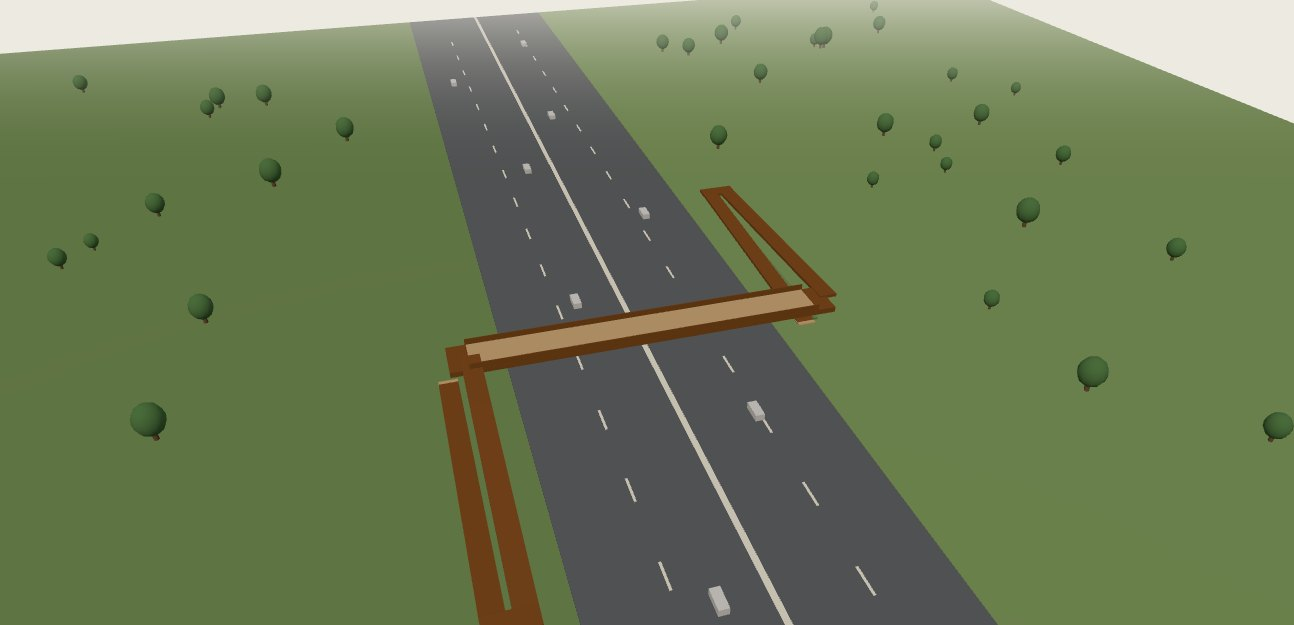
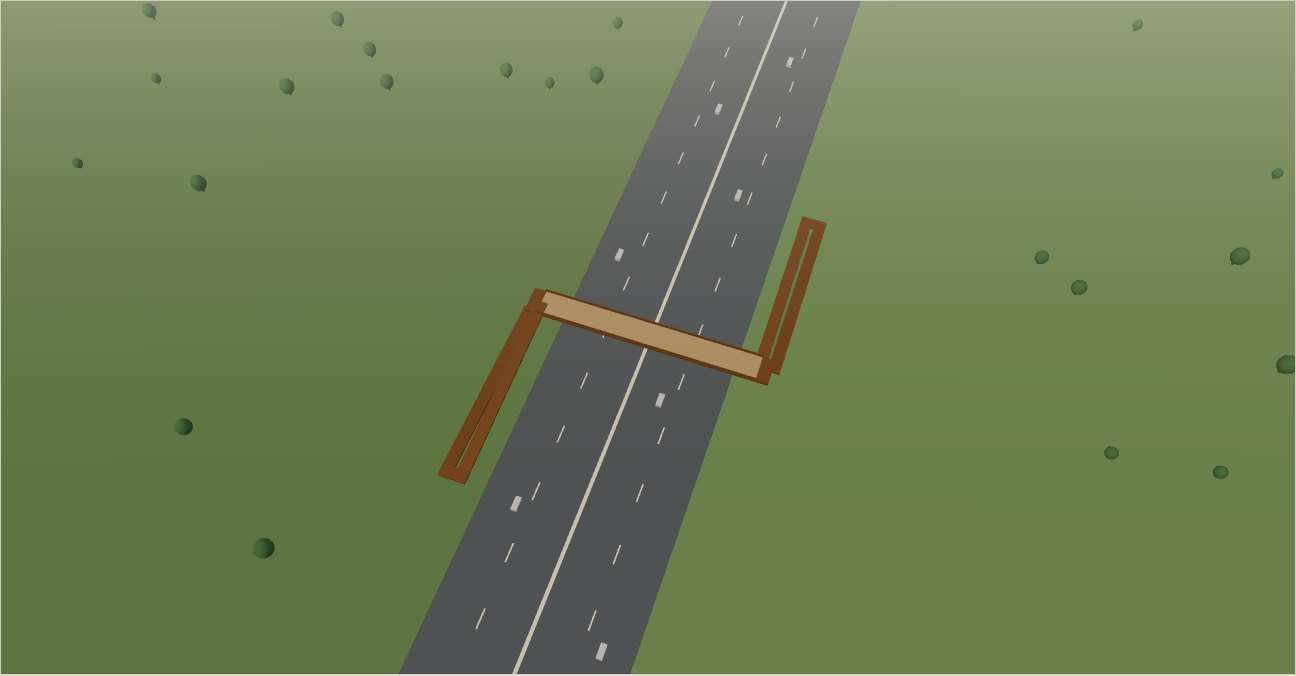
Reframe the 3D poster so it shows the shape it exists to explain
The still that stands in for the WebGL scene is there to show the deck and its
two switchback ramps reading together as the character 人. Both ramps ran off the
edge of the frame, so the one thing the image is for was the one thing it did not
do — and it is the first thing a reader sees, before the scene loads. Recomposed
so both ramps sit inside the frame.

Pulling the camera back exposed a second problem: the ground was 560x500 m, so
its cut edge came into shot as a hard diagonal — an edge of the world. The fog
ends at 560 m, so the ground now runs to 1500x1180 m and cannot be reached, with
lane markings and trees extended to match.

And when WebGL is unavailable the page kept telling the reader to drag or use the
arrow keys, with an aria-label promising the same, while the container had no
interaction left at all. That branch now drops the hint and the tabindex and
rewrites the label. Both paths were run: with WebGL the canvas, hint, tabindex and
interactive label are present; without it they are gone and the role is img.

diff --git a/submissions/wanghao198822/jingzhang-century-answer/visual/index.en.html b/submissions/wanghao198822/jingzhang-century-answer/visual/index.en.html
@@ -866,7 +866,7 @@ This browser cannot play embedded video; open assets/media/narrative.mp4 directl
 <h3 class="sub3"><span class="ix">D·2</span>Four-gate self-check</h3>
 <div class="gates"><div class="gate"><div class="gn">Deterministic validation<span class="pill ok" style="margin-left:7px">PASS</span></div><div class="gk">deterministic_validation · returncode 0</div><pre>errors 0
 warnings 24
-total bytes 40,810,765
+total bytes 40,809,981
 · submissions/wanghao198822/jingzhang-century-answer/geometry/site_boundary.geojson: uses provisional boundary; do not treat it as an official redline or precise-area basis. Organizer data gaps do not block content scoring; recalculate when official geometry is supplied
 · submissions/wanghao198822/jingzhang-century-answer/spatial.json: items[0]: provisional spatial concept needs maintainer review before being treated as public-facing context</pre></div><div class="gate"><div class="gn">Spatial review<span class="pill ok" style="margin-left:7px">PASS</span></div><div class="gk">spatial_review · returncode 0</div><pre>stage formal
 issues 3 (minor:3)
@@ -883,7 +883,7 @@ known_metric_refs_required = 83
 proposal_format_version = 2
 evidence_contract = section-anchors-plus-structured-audit
 proposal_reference_counts = source:23, standard:8, depth:15, data:26, metric:11</pre></div></div>
-<div class="note">From self_check.json: stage = formal · review_status = formal-review-ready · can_enter_formal_review = True<br>Calibre of total bytes: the figure above is the value recorded at self-check time. self_check.json is itself counted in the total, and the tool measures after writing an intermediate file that does not yet carry the gate results, so an independent re-run reports 758 bytes more (40,811,523). The difference is exactly the growth of self_check.json once the gate results are attached — an inherent two-phase write in the tool that changes no gate verdict.</div>
+<div class="note">From self_check.json: stage = formal · review_status = formal-review-ready · can_enter_formal_review = True<br>Calibre of total bytes: the figure above is the value recorded at self-check time. self_check.json is itself counted in the total, and the tool measures after writing an intermediate file that does not yet carry the gate results, so an independent re-run reports 758 bytes more (40,810,739). The difference is exactly the growth of self_check.json once the gate results are attached — an inherent two-phase write in the tool that changes no gate verdict.</div>
 <div class="tw"><table class="dt"><thead><tr><th>Check</th><th>Result</th><th>Severity</th><th>Target</th><th>Message</th></tr></thead><tbody><tr><td><code class="mid2">DETERMINISTIC_VALIDATION</code></td><td class="st"><span class="pill ok">pass</span></td><td>blocking</td><td><code class="mid2">validate_local_submission.py</code></td><td>deterministic_validation: PASS</td></tr><tr><td><code class="mid2">SPATIAL_REVIEW</code></td><td class="st"><span class="pill ok">pass</span></td><td>blocking</td><td><code class="mid2">spatial_review.py</code></td><td>spatial_review: PASS</td></tr><tr><td><code class="mid2">VISUAL_PACKAGING</code></td><td class="st"><span class="pill ok">pass</span></td><td>blocking</td><td><code class="mid2">visual_review.py</code></td><td>visual_review: PASS</td></tr><tr><td><code class="mid2">PROFESSIONAL_EVIDENCE</code></td><td class="st"><span class="pill ok">pass</span></td><td>blocking</td><td><code class="mid2">professional_review.py</code></td><td>professional_review: PASS</td></tr></tbody></table></div>
 </div></section>
 <section class="sec apx" id="s12"><div class="wrap"><div class="sh rv"><span class="no">E</span><h2 class="serif">Appendix E · Verify it yourself, on the spot</h2><span class="sub">Three scripts recompute in your own browser</span><span class="en">附录 E · 可当场核验工具</span></div>

diff --git a/submissions/wanghao198822/jingzhang-century-answer/visual/index.html b/submissions/wanghao198822/jingzhang-century-answer/visual/index.html
@@ -866,7 +866,7 @@ footer .fl{display:flex;gap:18px;flex-wrap:wrap;font-family:var(--mono);font-siz
 <h3 class="sub3"><span class="ix">D·2</span>四门自检</h3>
 <div class="gates"><div class="gate"><div class="gn">确定性校验<span class="pill ok" style="margin-left:7px">PASS</span></div><div class="gk">deterministic_validation · returncode 0</div><pre>错误 0
 警告 24
-总字节 40,810,765
+总字节 40,809,981
 · submissions/wanghao198822/jingzhang-century-answer/geometry/site_boundary.geojson: uses provisional boundary; do not treat it as an official redline or precise-area basis. Organizer data gaps do not block content scoring; recalculate when official geometry is supplied
 · submissions/wanghao198822/jingzhang-century-answer/spatial.json: items[0]: provisional spatial concept needs maintainer review before being treated as public-facing context</pre></div><div class="gate"><div class="gn">空间审查<span class="pill ok" style="margin-left:7px">PASS</span></div><div class="gk">spatial_review · returncode 0</div><pre>阶段 formal
 问题 3 (minor:3)
@@ -883,7 +883,7 @@ known_metric_refs_required = 83
 proposal_format_version = 2
 evidence_contract = section-anchors-plus-structured-audit
 proposal_reference_counts = source:23, standard:8, depth:15, data:26, metric:11</pre></div></div>
-<div class="note">self_check.json 记录：stage = formal · review_status = formal-review-ready · can_enter_formal_review = True<br>总字节口径：上表为自检写入时点的记录值。self_check.json 自身计入总字节，而工具先写入尚未附四门结果的中间文件再测量，故独立重跑会比表中大 758 字节（40,811,523）——差值即 self_check.json 附上四门结果后的增量，属工具固有的两阶段写入，不影响任何一门的结论。</div>
+<div class="note">self_check.json 记录：stage = formal · review_status = formal-review-ready · can_enter_formal_review = True<br>总字节口径：上表为自检写入时点的记录值。self_check.json 自身计入总字节，而工具先写入尚未附四门结果的中间文件再测量，故独立重跑会比表中大 758 字节（40,810,739）——差值即 self_check.json 附上四门结果后的增量，属工具固有的两阶段写入，不影响任何一门的结论。</div>
 <div class="tw"><table class="dt"><thead><tr><th>自检项</th><th>结果</th><th>级别</th><th>对象</th><th>说明</th></tr></thead><tbody><tr><td><code class="mid2">DETERMINISTIC_VALIDATION</code></td><td class="st"><span class="pill ok">pass</span></td><td>blocking</td><td><code class="mid2">validate_local_submission.py</code></td><td>deterministic_validation: PASS</td></tr><tr><td><code class="mid2">SPATIAL_REVIEW</code></td><td class="st"><span class="pill ok">pass</span></td><td>blocking</td><td><code class="mid2">spatial_review.py</code></td><td>spatial_review: PASS</td></tr><tr><td><code class="mid2">VISUAL_PACKAGING</code></td><td class="st"><span class="pill ok">pass</span></td><td>blocking</td><td><code class="mid2">visual_review.py</code></td><td>visual_review: PASS</td></tr><tr><td><code class="mid2">PROFESSIONAL_EVIDENCE</code></td><td class="st"><span class="pill ok">pass</span></td><td>blocking</td><td><code class="mid2">professional_review.py</code></td><td>professional_review: PASS</td></tr></tbody></table></div>
 </div></section>
 <section class="sec apx" id="s12"><div class="wrap"><div class="sh rv"><span class="no">E</span><h2 class="serif">附录 E · 可当场核验工具</h2><span class="sub">三个脚本在你自己的浏览器里当场复算</span><span class="en">Appendix E · Verify it yourself, on the spot</span></div>

diff --git a/submissions/wanghao198822/jingzhang-century-answer/visual/assets/bridge3d.js b/submissions/wanghao198822/jingzhang-century-answer/visual/assets/bridge3d.js
@@ -50,13 +50,13 @@
 
     /* —— 场地：中间 60m 环路，两侧绿地 —— */
     var ROAD_W = 60;
-    box(560, 0.4, ROAD_W, M.road, 0, -0.2, 0);
-    box(560, 0.42, 220, M.green, 0, -0.21, -(ROAD_W / 2 + 110));
-    box(560, 0.42, 220, M.green2, 0, -0.21, (ROAD_W / 2 + 110));
-    box(560, 0.44, 1.2, M.lane, 0, -0.18, 0);                    // 中央分隔
-    for (var i = 0; i < 26; i++) {                                // 车道虚线
-      box(6, 0.44, 0.5, M.lane, -250 + i * 20, -0.18, -15);
-      box(6, 0.44, 0.5, M.lane, -240 + i * 20, -0.18, 15);
+    box(1500, 0.4, ROAD_W, M.road, 0, -0.2, 0);
+    box(1500, 0.42, 560, M.green, 0, -0.21, -(ROAD_W / 2 + 280));
+    box(1500, 0.42, 560, M.green2, 0, -0.21, (ROAD_W / 2 + 280));
+    box(1500, 0.44, 1.2, M.lane, 0, -0.18, 0);                    // 中央分隔
+    for (var i = 0; i < 70; i++) {                                // 车道虚线
+      box(6, 0.44, 0.5, M.lane, -690 + i * 20, -0.18, -15);
+      box(6, 0.44, 0.5, M.lane, -680 + i * 20, -0.18, 15);
     }
 
     /* —— 桥：Z 向跨路，桥面顶标高 6.0 —— */
@@ -105,8 +105,8 @@
     }
     var rng = 9973;
     function rnd() { rng = (rng * 16807) % 2147483647; return rng / 2147483647; }
-    for (var t = 0; t < 90; t++) {
-      var x = (rnd() - 0.5) * 480, z = (ROAD_W / 2 + 14) + rnd() * 150;
+    for (var t = 0; t < 190; t++) {
+      var x = (rnd() - 0.5) * 1100, z = (ROAD_W / 2 + 14) + rnd() * 330;
       if (Math.abs(x) < 78 && z < 78) continue;                    // 让开坡道
       tree(x, (t % 2 ? 1 : -1) * z, 0.8 + rnd() * 0.7);
     }
@@ -176,6 +176,14 @@
         ? "Static image only - interactive 3D unavailable in this browser"
         : "仅静态图 · 本浏览器无法运行可交互三维");
       container.setAttribute("role", "img");
+      /* 三维起不来时，「拖拽或方向键旋转」这条操作提示还留在右下角，等于让人去做办不到的事；
+         同时 aria-label 也还在说可以用方向键。两处一并改掉。 */
+      var hint = container.querySelector(".hint3d");
+      if (hint && hint.parentNode) hint.parentNode.removeChild(hint);
+      container.removeAttribute("tabindex");
+      container.setAttribute("aria-label", document.documentElement.lang === "en"
+        ? "Static concept view of the Ren-Shaped Leap footbridge; interactive 3D is unavailable in this browser"
+        : "人字之跃步行桥三维概念示意的静态图；本浏览器无法运行可交互三维");
     }
   };
 })();

diff --git a/submissions/wanghao198822/jingzhang-century-answer/changelog.md b/submissions/wanghao198822/jingzhang-century-answer/changelog.md
@@ -1,5 +1,11 @@
 # 方案迭代记录
 
+## v0.17 - 2026-08-28
+
+- **三维兜底图没做到它唯一要做的事**：`b3d-poster.jpg` 存在的理由是「俯视合读为人字」，而画面里左下与右侧两组折返坡道都跑出了画外，什么也没解释成——它还是 WebGL 加载前第一个被看到的画面。改了取景（把环路转到斜贯画面、相机后退并抬高俯角），两组坡道现在完整入画，桥面—坡道的「人」字形一眼可读。
+- **顺带修掉画面里的「世界的边」**：地面原为 560×500 米，相机稍一后退就能看到地块被切断的直边。雾在 260 米起、560 米止，已把地面放大到 1500×1180 米（雾外），边缘再也进不了画面；车道虚线与树木随之铺满。
+- **三维起不来时页面在让人做办不到的事**：WebGL 不可用时保留静态兜底图是对的，但右下角「拖拽或方向键旋转 · 滚轮或 +/− 缩放」的操作提示仍在，`aria-label` 也还在说可用方向键，而此时容器已无任何交互。现在这条分支会移除操作提示与 `tabindex`、把 `aria-label` 改写为静态图说明。**两条路径都实跑验证过**：禁用 WebGL 时提示消失、`role=img`、aria 改写；启用 WebGL 时画布、提示、`tabindex=0` 与可交互 aria 均在。
+
 ## v0.16 - 2026-08-28
 
 - **全包主色统一到印刷件的藏青 + 铜**。此前印刷图册是藏青 `#1F3A5F` + 铜 `#B87333`，展示页却是青绿 `#2F6B4F` + 另一个铜，藏青一次都没出现——评委拿着藏青图册扫码进青绿网页，第一反应会是「这几件东西不是一个人做的」。核查用色时还发现更实质的一条：**青绿在页面上身兼二职**，既是品牌与结构色（品牌字、章节号、栏目标题、按钮、语言切换），又是「通过 / 进度」的状态色（`pass` 标、核验通过徽章、长卷进度条、道钉带生长条）。现在把两件事拆开——结构与品牌统一到藏青，青绿降级为**状态色专用**（新增 `--ok` 记号）。改的是记号，不动任何数值、`data-metric`、图文对应或证据引用。
